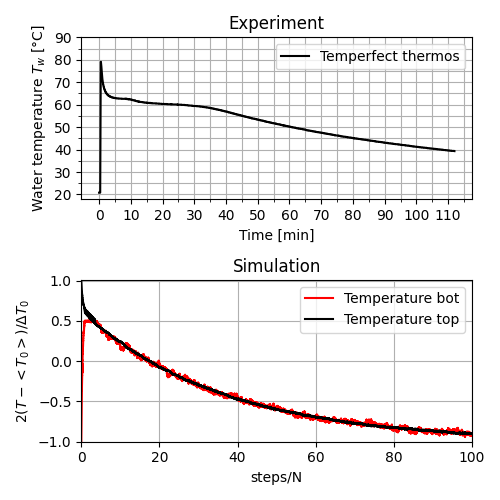
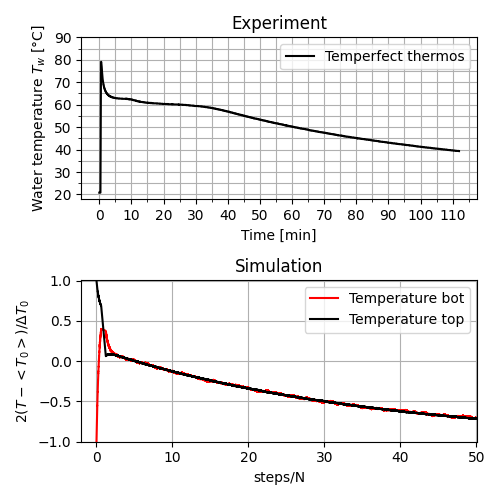
managed to simulate the quickly cooling top part, but not the slowly cooling top part

diff --git a/Obligs/Oblig 1/temperfect_simulation.py b/Obligs/Oblig 1/temperfect_simulation.py
@@ -1,13 +1,13 @@
 import matplotlib.pyplot as plt
 import numpy as np
 
-# Simulation parameters
+# SIMULATION PARAMETERS
 Ctb = 5  # Heat capacity ratio top to bottom
 C_loss = 1/18  # Heat loss coefficient
-N = 10_000  # Number of heat packets
-nstep = 100 * N  # Number of steps in simulation
-T_bm = 0.5  # melting temperature for bottom part
-L_b = nstep / N * 5   # latent heat for bottom (amount of steps to simulate phase-change)
+N = 80_000  # Number of heat packets
+nstep = 50 * N  # Number of steps in simulation
+T_bm = 0.4  # melting temperature for bottom part
+L_b = 0.6 * N   # latent heat for bottom, simulating phase-change
 
 # PLOT TEMPERFECT EXPERIMENT
 data = np.genfromtxt("termokopper_data.txt")
@@ -23,15 +23,15 @@ plt.title("Experiment")
 plt.xlabel("Time [min]")
 plt.ylabel("Water temperature $T_w$ [°C]")
 
-# Grid ticks
+# Data grid ticks
 xmin = 0
 xmax = 116
-plt.xticks(range(xmin, xmax, 10))
-plt.xticks(range(xmin, xmax, 5), minor=True)
+plt.xticks(np.arange(xmin, xmax, 10))
+plt.xticks(np.arange(xmin, xmax, 5), minor=True)
 ymin = 20
 ymax = 91
-plt.yticks(range(ymin, ymax, 10))
-plt.yticks(range(ymin, ymax, 5), minor=True)
+plt.yticks(np.arange(ymin, ymax, 10))
+plt.yticks(np.arange(ymin, ymax, 5), minor=True)
 plt.grid(which="both")
 
 
@@ -136,8 +136,8 @@ for i in range(1, nstep):
     heat_loss_bot(i)
 
 
-# Grid ticks
-xmin = 0
+# Simulation grid ticks
+xmin = -2
 xmax = nstep/N + 0.1
 x_ticks_maj = np.arange(xmin, xmax, 2.5)
 x_ticks_min = np.arange(xmin, xmax, 2.5/2)
@@ -163,3 +163,4 @@ plt.grid(which="both")
 
 plt.tight_layout()
 plt.savefig("figures/temperfect_simulation.png")
+# plt.show()
